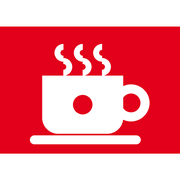
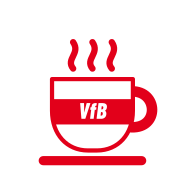
Pausentee: neues App-Symbol (Tasse mit Brustring)
Claude-Session: https://claude.ai/code/session_01S8L8DogxwocfMJjTU28oFX

diff --git a/index.html b/index.html
@@ -5,7 +5,8 @@
 <meta name="viewport" content="width=device-width, initial-scale=1, viewport-fit=cover">
 <title>Pausentee · VfB-Tipprunde</title>
 <link rel="manifest" href="manifest.webmanifest">
-<link rel="icon" href="icon-192.png">
+<link rel="icon" href="icon.svg" type="image/svg+xml">
+<link rel="alternate icon" href="icon-192.png">
 <link rel="apple-touch-icon" href="icon-180.png">
 <meta name="apple-mobile-web-app-capable" content="yes">
 <meta name="mobile-web-app-capable" content="yes">
